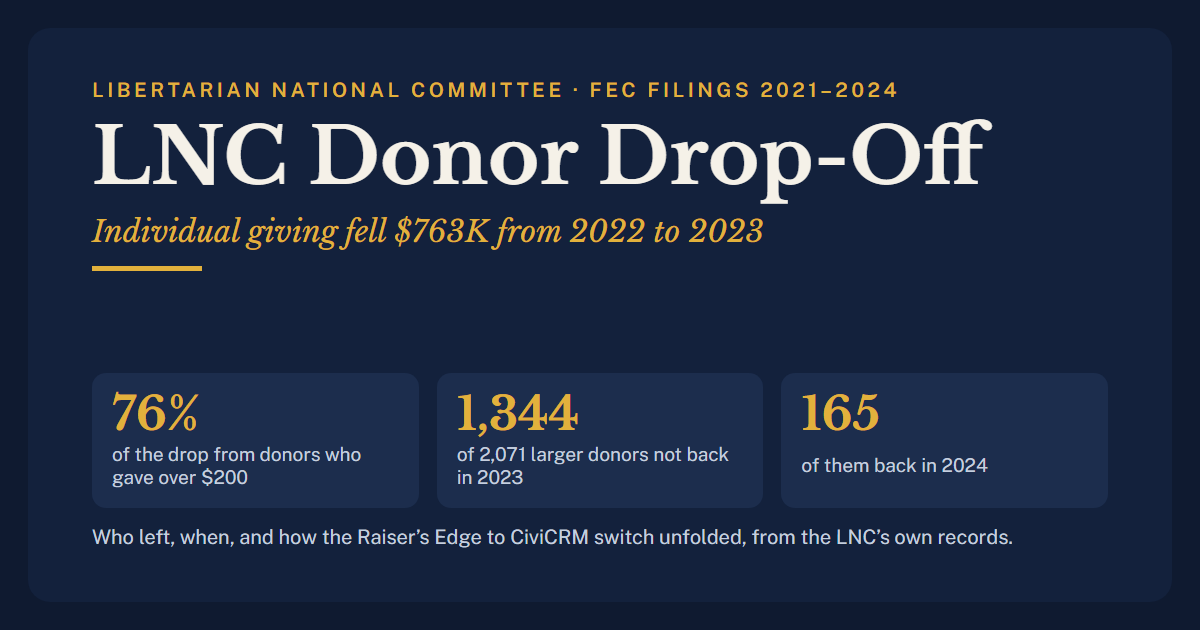
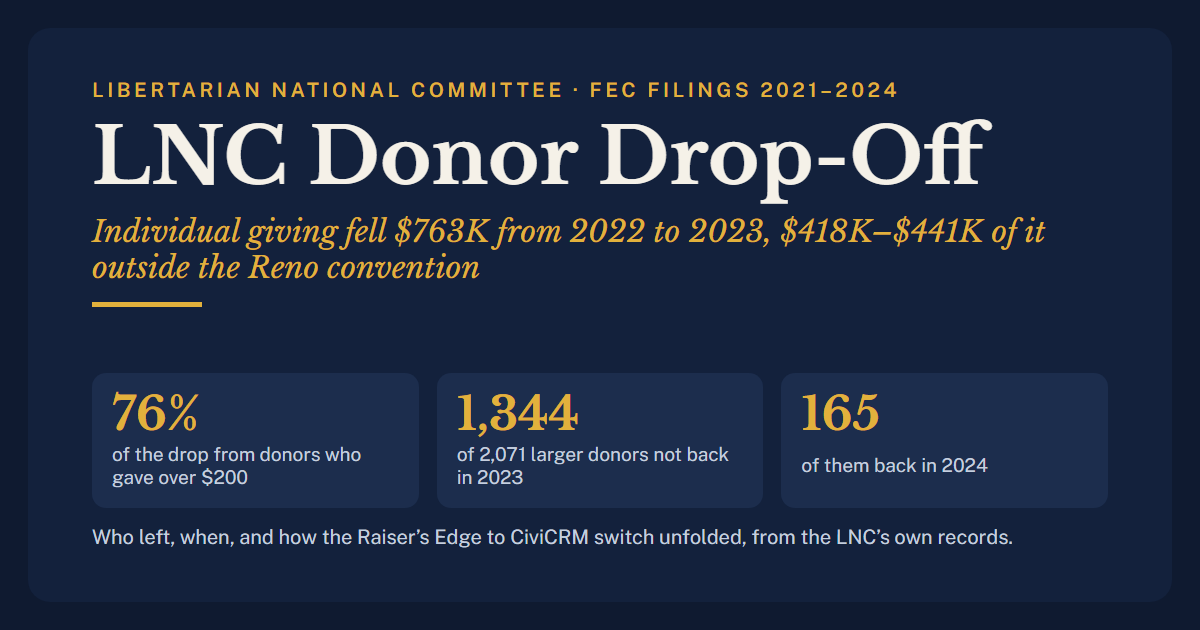
Show convention money in the 2022-2023 drop and the cutover's cost

Changed region(s): [[0.0617, 0.3921, 0.4008, 0.5127], [0.6475, 0.3317, 0.8942, 0.3921]]

diff --git a/index.html b/index.html
@@ -14,7 +14,7 @@
 <meta property="og:image" content="https://drugsforrobots.github.io/lnc-donor-loss-2022-2023/preview.png">
 <meta property="og:image:width" content="1200">
 <meta property="og:image:height" content="630">
-<meta property="og:image:alt" content="LNC Donor Drop-Off: individual giving fell $763K from 2022 to 2023">
+<meta property="og:image:alt" content="LNC Donor Drop-Off: individual giving fell $763K from 2022 to 2023, $418K–$441K of it outside the Reno convention">
 <meta name="twitter:card" content="summary_large_image">
 <meta name="twitter:title" content="LNC Donor Drop-Off, 2021–2024">
 <meta name="twitter:description" content="How individual giving to the Libertarian National Committee fell from 2022 to 2023, which donors left and when, and how the move from Raiser's Edge to CiviCRM unfolded, from the LNC's own FEC filings and meeting records.">
@@ -132,6 +132,7 @@ window.dash = (function () {
     <h1 id="top">LNC Donor <span class="nw">Drop-Off,</span> <span class="nw">2021–2024</span></h1>
     <div class="rule"></div>
     <p class="lede">Individual giving to the LNC fell by <b data-draw="k-drop" data-source="kpi" data-field="drop">—</b> from 2022 to 2023. <b data-draw="k-share" data-source="kpi" data-field="itemShare">—</b> of it was gifts from donors who gave over $200 a year. Of the <b data-draw="k-base" data-source="kpi" data-field="base">—</b> people who gave over $200 in 2022, <b data-draw="k-lost" data-source="kpi" data-field="lost">—</b> did not do so again in 2023, and <b data-draw="k-back" data-source="kpi" data-field="back">—</b> of them came back in 2024.</p>
+    <p class="lede">About $322,000–$345,000 of that drop was money from the May 2022 Reno convention, which had no 2023 counterpart. Outside the convention, giving fell about <b>$418,000–$441,000</b>. <a href="#convention">How that is measured</a>.</p>
   </header>
 
   <section class="tiles" aria-label="Headline figures">
@@ -152,6 +153,21 @@ window.dash = (function () {
         <tbody data-draw="yeartable"></tbody>
       </table>
     </div>
+  </section>
+
+  <section class="card" id="convention">
+    <h2>Convention Money In The 2022 Total</h2>
+    <p class="note">The FEC's "individual" total includes convention packages and convention fundraising. The LNC's own December books report that money on a separate events line. Taking it out of both gives the same answer.</p>
+    <div class="scroll"><table>
+      <thead><tr><th>Year</th><th class="n">FEC Individual Gifts</th><th class="n">Books, Without Convention</th><th class="n">Difference</th><th class="n">Convention Cash That Year</th></tr></thead>
+      <tbody>
+        <tr><td>2021</td><td class="n">$2,085,609</td><td class="n">$1,995,028</td><td class="n">$90,581</td><td class="n">$97,631</td></tr>
+        <tr><td>2022</td><td class="n">$1,975,342</td><td class="n">$1,555,279</td><td class="n">$420,063</td><td class="n">$413,995</td></tr>
+        <tr><td>2023</td><td class="n">$1,212,518</td><td class="n">$1,137,291</td><td class="n">$75,227</td><td class="n">$91,756</td></tr>
+      </tbody>
+    </table></div>
+    <p class="note">Without convention money, 2022 to 2023 fell <b>$417,988</b> on the books and <b>$440,585</b> in the FEC filings. Reno's May 2022 report gives $374,795 of convention revenue and $138,800 of convention fundraising. Counting that fundraising as ordinary giving puts the fall at about $557,000–$580,000. Sources: the LNC's December 2021, 2022 and 2023 finance reports and its FEC filings.</p>
+    <p class="note">The Raiser's Edge cutover in January 2023 accounts for part of what remains. Recurring monthly gifts were $52,395 in December 2022 and $44,730 by April 2023. The best-supported 2023 cost is about <b>$67,000–$120,000</b>. Staff told the LNC on March 11, 2023 that about $144,000 a year was at risk at first and that they "got it down to a 44 000 loss". Non-convention revenue was already down about a third year over year in the two quarters before the cutover.</p>
   </section>
 
   <div class="grid2">
